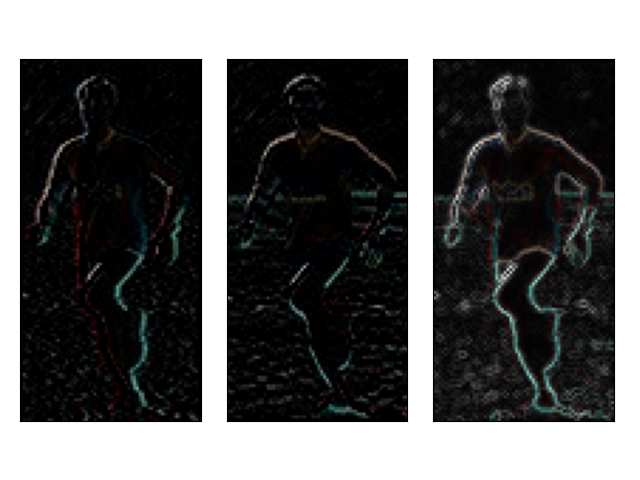
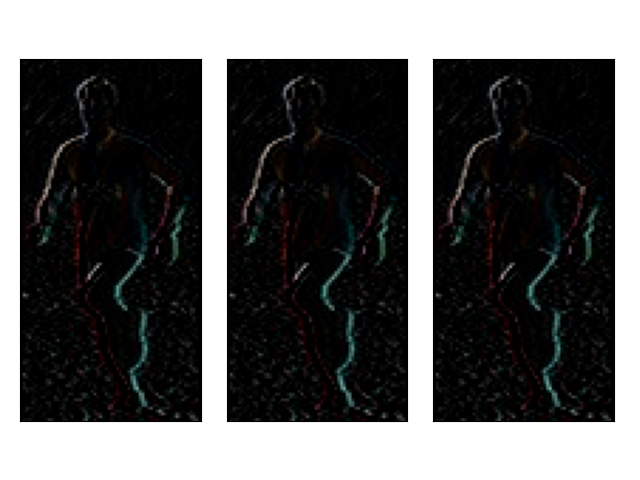
Added better comments

diff --git a/hog.py b/hog.py
@@ -16,8 +16,6 @@ from skimage import data, exposure
 imgorg = cv.imread('images/pascal2007-person-correctsize.jpg') #  Use the correct size of 64x128 pixels
 img = np.float32(imgorg) / 255.0
 
-gray = cv.cvtColor(img, cv.COLOR_BGR2GRAY)
-
 # Calculate gradient
 gx = cv.Sobel(img, cv.CV_32F, 1, 0, ksize=1)
 gy = cv.Sobel(img, cv.CV_32F, 0, 1, ksize=1)
@@ -26,33 +24,24 @@ gy = cv.Sobel(img, cv.CV_32F, 0, 1, ksize=1)
 mag, angle = cv.cartToPolar(gx, gy, angleInDegrees=True)
 
 # Plot x, y, and magnitude of gradients
-plt.subplot(1,3,1)
-plt.imshow(gx, cmap='Blues')
-plt.title('Gradient x', color='white')
-plt.xticks([])
-plt.yticks([])
-plt.subplot(1,3,2)
-plt.imshow(gy, cmap='Blues')
-plt.title('Gradient y', color='white')
-plt.xticks([])
-plt.yticks([])
-plt.subplot(1,3,3)
-plt.imshow(mag, cmap='Blues')
-plt.title('Gradient magnitude', color='white')
-plt.xticks([])
-plt.yticks([])
+titles = ['Gradient x', 'Gradient y', 'Gradient magnitude']
+for i in range(0,3):
+    print(i)
+    plt.subplot(1,3,i+1)
+    plt.imshow(gx, cmap='Blues')
+    plt.title(titles[i], color='white')
+    plt.xticks([])
+    plt.yticks([])
 plt.tight_layout()
 plt.savefig('images/hog-example-gradients.png', transparent=True)
 plt.show()
 
-# Make final plot
+# Calculate HOG. Opencv doesn't offer visualization so skimage is used here.
 implot = cv.cvtColor(imgorg, cv.COLOR_BGR2RGB)
-
-## Calculate HOG. Opencv doesn't offer visualization so skimage is used here.
 fd, hogimage = hogsk(implot, visualize=True)
 hogimage = exposure.rescale_intensity(hogimage, in_range=(0, 10))
 
-## Make grid 8x8 pixels for visualization
+# Make grid 8x8 pixels for visualization
 dx = 8
 dy = 8
 colour = [255, 255, 255]
@@ -62,23 +51,15 @@ implot[::dy,:,:] = colour
 mag[:,::dx,:] = colour
 mag[::dy,:,:] = colour
 
-plt.subplot(1,3,1)
-plt.imshow(implot)
-plt.title('Original', color='white')
-plt.xticks([])
-plt.yticks([])
-plt.subplot(1,3,2)
-plt.imshow(mag, cmap='Blues')
-plt.title('Gradient magnitude', color='white')
-plt.xticks([])
-plt.yticks([])
+titles = ['Original', 'Gradient magnitude', 'HOG feature map']
+images = [implot, mag, hogimage]
 
-plt.subplot(1,3,3)
-plt.imshow(hogimage, cmap='Blues')
-plt.title('HOG feature map', color='white')
-plt.xticks([])
-plt.yticks([])
-
+for i in range(0,3):
+    plt.subplot(1,3,i+1)
+    plt.imshow(images[i])
+    plt.title(titles[i], color='white')
+    plt.xticks([])
+    plt.yticks([])
 plt.tight_layout()
 plt.savefig('images/hog-example.png', transparent=True)
 plt.show()

diff --git a/sift.py b/sift.py
@@ -1,15 +1,15 @@
 '''
 Applies SIFT keypoint detector to an input image and displays the keypoints.
 
-Last update: Nov 24, 2020
+Last update: Dec 31, 2020
 Author: Dave
 
 Parameters values from paper:
-numberOfOctaves = 4
+numberOfOctaves = 3
 numberOfScaleLevels = 5
 sigma = 1.6
 k = sqrt(2)
-contrastThreshold = 0.03 | Threshold value similar to Harris filter
+contrastThreshold = 0.09 | Threshold value similar to Harris filter
 edgeThreshold = 10
 '''
 
@@ -17,17 +17,17 @@ import numpy as np
 import cv2 as cv
 
 img = cv.imread('images/pascal2007-plane.jpg')
-gray = cv.cvtColor(img, cv.COLOR_BGR2GRAY)
+grey = cv.cvtColor(img, cv.COLOR_BGR2GRAY)
 
 # Create a SIFT object
-sift = cv.xfeatures2d_SIFT.create(nfeatures=300, nOctaveLayers=5, contrastThreshold=0.03, edgeThreshold=10, sigma=1.6)
-kp = sift.detect(gray, None)
+sift = cv.xfeatures2d_SIFT.create(nfeatures=0, nOctaveLayers=3, contrastThreshold=0.09, edgeThreshold=10, sigma=1.6)
 
-# Draw keypoints
-img = cv.drawKeypoints(gray,kp,img,flags=cv.DRAW_MATCHES_FLAGS_DRAW_RICH_KEYPOINTS)
+# Detect and draw keypoints
+kp = sift.detect(grey, None)
+img = cv.drawKeypoints(grey,kp,img,flags=cv.DRAW_MATCHES_FLAGS_DRAW_RICH_KEYPOINTS)
 
-# Save imagee
-cv.imwrite('sift-example.jpg', img)
+# Save images
+cv.imwrite('images/sift-example.jpg', img)
 
 # Show image with keypoints
 cv.imshow('image', img)

diff --git a/README.md b/README.md
@@ -23,6 +23,6 @@ Popular traditional algorithm for object recognition. Identifies scale invariant
 
 ### Histogram of Oriented Gradients
 
-Another traditional image recognition algorithm. Default parameters are tailored to detect pedestrians. Aggregates intensity gradients for image patches in histograms to encode the 
+Another traditional image recognition algorithm. Default parameters are tailored to detect pedestrians. Aggregates pixel intensity gradients for image patches in histograms to encode the boundaries of objects, here pedestrians.
 
 ![hog example](images/hog-example.png "HOG example")
